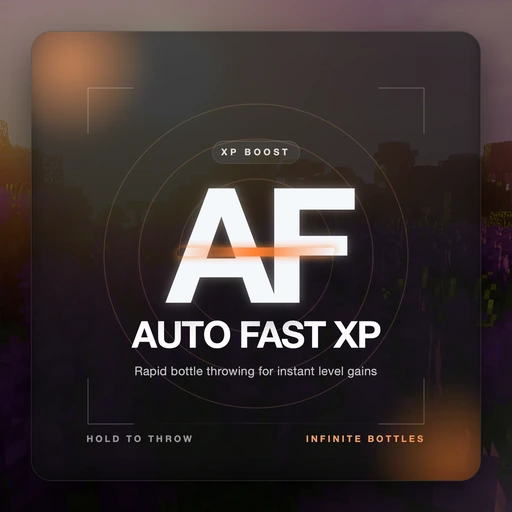
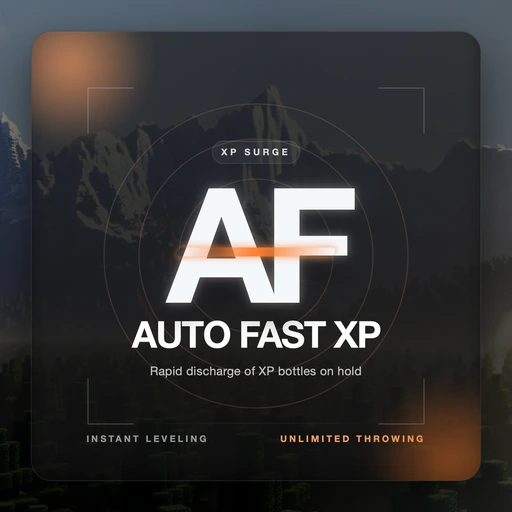
Auto-sync Auto Fast XP source snapshot

diff --git a/docs/Home.md b/docs/Home.md
@@ -28,7 +28,7 @@ Release right-click to stop.
 
 
 
-- Summary: Wanting to level up fast? Tired of spamming XP bottles? Well this mod cancels that pain, you can just hold right‑click and watch the levels rise.
+- Summary: Automatically throws XP bottles rapidly when you hold right-click. Perfect for quickly gaining XP!
 
 - Loader: `forge`
 

diff --git a/docs/README.md b/docs/README.md
@@ -28,7 +28,7 @@ Release right-click to stop.
 
 
 
-- Summary: Wanting to level up fast? Tired of spamming XP bottles? Well this mod cancels that pain, you can just hold right‑click and watch the levels rise.
+- Summary: Automatically throws XP bottles rapidly when you hold right-click. Perfect for quickly gaining XP!
 
 - Loader: `forge`
 
